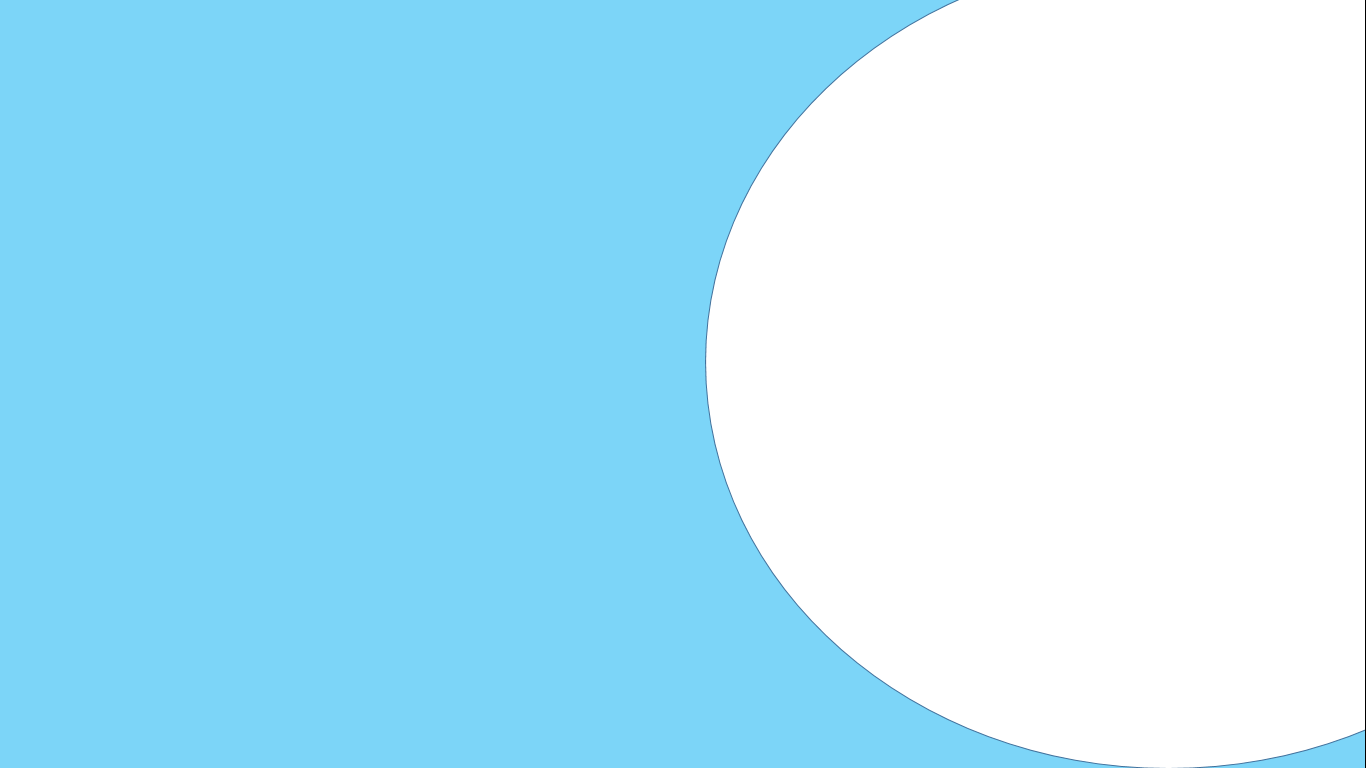
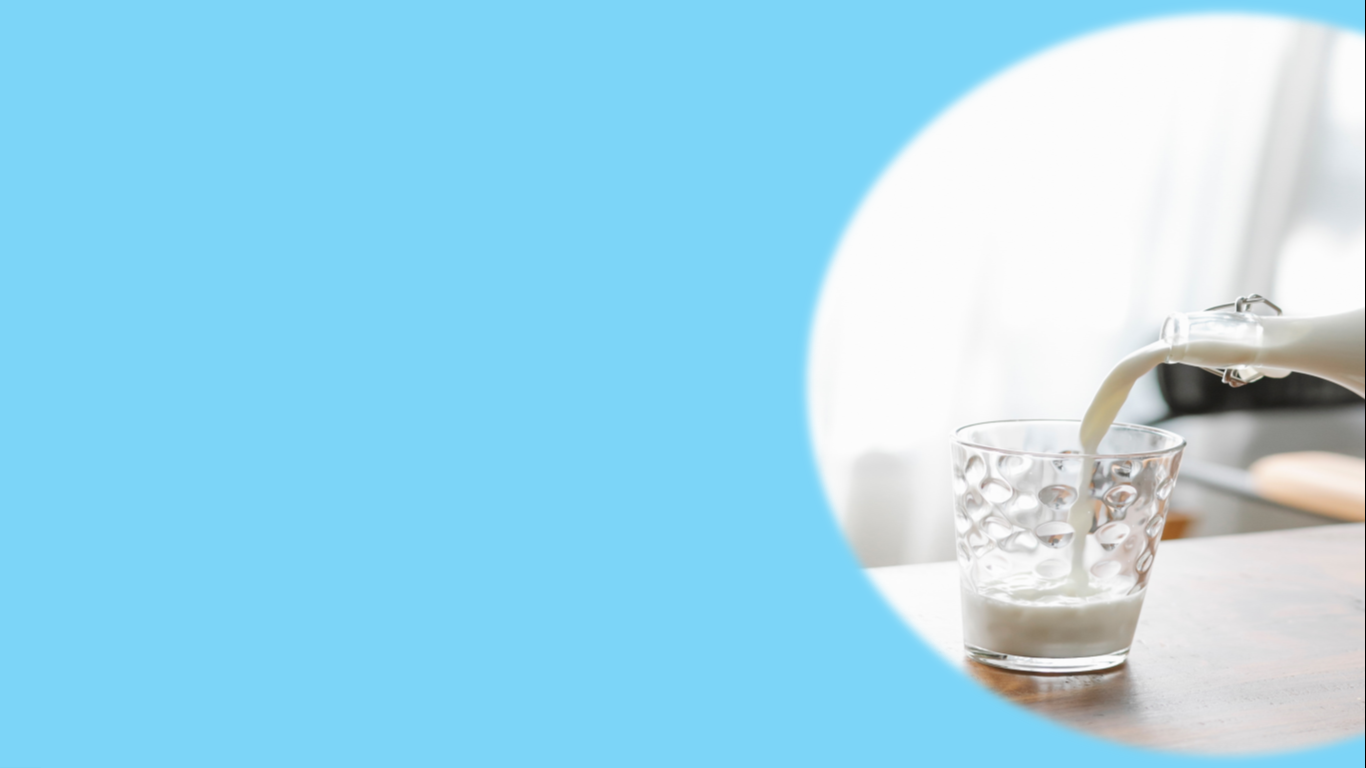
Confecção das calculadoras de Defict Calórico e Calculo de Injeção das proteínas

Changed region(s): [[0.4919, 0.0, 1.0, 1.0]]

diff --git a/site/public/simulador.html b/site/public/simulador.html
@@ -28,7 +28,7 @@
                 <li>
                     <a href="./index.html">Inicial</a>
                 </li>
-                <li class="agora">Simulador</li>
+                <li class="agora">DietControl</li>
                 <li>|</li>
                 <li>
                     <a href="./login.html">Login</a>
@@ -51,6 +51,23 @@
             <button class= "button1" onclick="cal()">Calcular</button></h2>
             
             <h3 class="int4 " style="color: black;">O seu resultado irá aparecer aqui:</h3><div class="result1" id="d1"></div>
+
+        </div>
+        <div class="containerCARB">
+            <h4 class="int" style="color: black;">"O consumo de <b>carboidratos</b> é muito importante quando falamos de dieta, através de uma determinada dieta é possivel reduzir ou aumentar sua massa corporal de acordo com seu objetivo. "</h4> <br><br>
+            <h2 class="int2" style="color: black;">Calcule quantas gramas de carboidratos devem ser ingeridas por você ao dia, de acordo com seu objetivo. É rápido e simples!</h2> <br>
+
+            <h2 class="int3" style="color: black;">Informe seu peso(redução de peso): <br><br><input type="text" id="pes2">
+
+             <button onclick="cal2()" class="button1">Calcular calorias</button>
+
+            <h2 class="int3" style="color: black;">Informe seu peso(ganho de peso): <br><br><input type="text" id="pes3">
+                        
+            <button onclick="cal3()" class="button1">Calcular calorias</button>
+                        
+            <h3 class="int4 " style="color: black;">Sua injeção de carboidratos deverá ser de:</h3><div class="result1" id="d2"></div>
+            
+           
 
         </div>
     </div>
@@ -76,9 +93,26 @@
 <script>
 
     function cal(){
-        var peso = Number(pes.value)
-        var result = peso*0.80
 
-        d1.innerHTML = `<b> Em termos gerais, a recomendação da Organização Mundial da Saúde é de 0,8 gramas por kg de peso. <br> Logo, sua injecção de proteína por dia deve ser cerca de ${result.toFixed(2)}<b>`
+        d1.innerHTML = ""
+        var peso = Number(pes.value)
+        var result = peso*2
+
+        d1.innerHTML = `<b> Em termos gerais, a recomendação da Organização Mundial da Saúde é de 2 gramas por kg de peso. <br> Logo, sua injecção de proteína por dia deve ser cerca de ${result.toFixed(2)}g.<b>`
     }
+    function cal2(){
+        d2.innerHTML = ""
+        var peso = Number(pes2.value)
+        var result = ((peso*4)*2)+ ((peso*2)*4) + ((peso*1)*9) 
+
+        d2.innerHTML = `<b> ${result.toFixed(2)} POR DIA<b>`
+    }
+    function cal3(){
+        d2.innerHTML = ""
+        var peso = Number(pes3.value)
+        var result = ((peso*4)*4)+ ((peso*2)*4) + ((peso*1)*9)
+
+        d2.innerHTML = `<b> ${result.toFixed(2)} POR DIA <b>`
+    }
+
 </script>

diff --git a/site/public/css/style.css b/site/public/css/style.css
@@ -267,6 +267,12 @@ body {
   box-shadow: 0 1px 10px 13px rgb(33, 136, 177);
   background-image: url("../assets/imgs/calc1.png");
 }
+.containerCARB{
+  padding: 70px;
+  box-shadow: 0 1px 10px 13px rgb(33, 136, 177);
+  background-image: url("../assets/imgs/calc2.png");
+  background-size: 1800px;
+}
 .int{
   font-style: italic;
   align-items: center;
@@ -299,6 +305,17 @@ body {
   justify-content: center;
 }
 .simulador .containerPRO .button1 {
+  margin-top: 20px;
+  width: 120px;
+  color: #ffffff;
+  background-color: rgb(33, 136, 177);
+  padding: 10px 20px;
+  font-weight: bold;
+  border: none;
+  border-radius: 5px;
+  cursor: pointer;
+}
+.simulador .containerCARB .button1 {
   margin-top: 20px;
   width: 120px;
   color: #ffffff;

diff --git a/site/public/index.html b/site/public/index.html
@@ -22,7 +22,7 @@
             <ul class="navbar">
                 <li class="agora">Inicial</li>
                 <li>
-                    <a href="./simulador.html">BodyControl</a>
+                    <a href="./simulador.html">DietControl</a>
                 </li>
                 <li>|</li>
                 <li>

diff --git a/site/public/login.html b/site/public/login.html
@@ -32,7 +32,7 @@
                     </a>
                 </li>
                 <li>
-                    <a href="./simulador.html">BodyControl</a>
+                    <a href="./simulador.html">DietControl</a>
                 </li>
                 <li>|</li>
                 <li class="agora">

diff --git a/site/public/cadastro.html b/site/public/cadastro.html
@@ -33,7 +33,7 @@
                     </a>
                 </li>
                 <li>
-                    <a href="./simulador.html">BodyControl</a>
+                    <a href="./simulador.html">DietControl</a>
                 </li>
                 <li>|</li>
                 <li>
